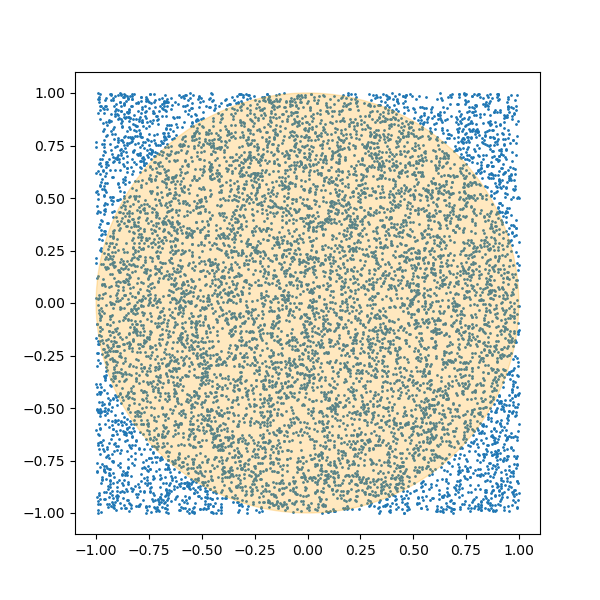
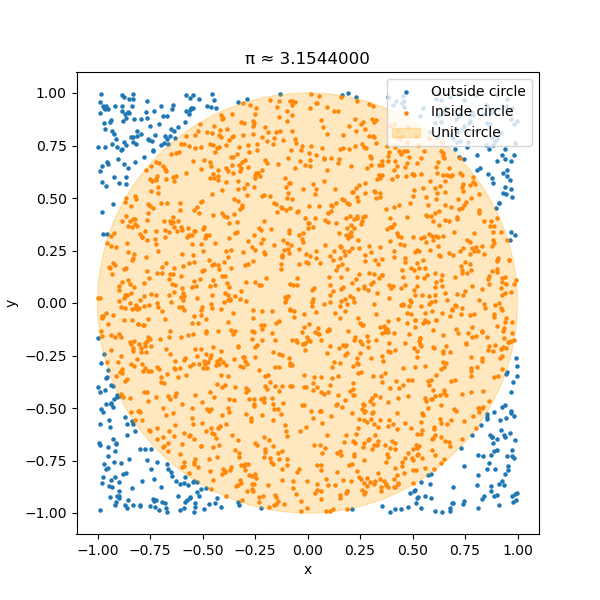
fix approximate_pi task

diff --git a/approximate_pi.py b/approximate_pi.py
@@ -7,30 +7,53 @@ N = 10000
 
 points = np.random.uniform([-1,-1],[1,1],(N,2))
 
+inside = points[:, 0]**2 + points[:, 1]**2 <= 1
 
-count = 0
-for x, y in points:
-    if x*x + y*y <= 1:
-        count += 1
+count = np.sum(inside)
 
 PI = 4 * count / N
 
 print(f"PI is approximate to be {PI:.7f}")
 
-plt.figure(figsize=(6,6))
+# ---- plotting (small sample only) ----
+sample_size = 2000
+sample_points = points[:sample_size]
+sample_inside = inside[:sample_size]
 
-# plot points
-plt.scatter(points[:, 0], points[:, 1], s=1)
+plt.figure(figsize=(6, 6))
 
-# create a circle
-circle = plt.Circle(
-    (0, 0),          # center
-    1,               # radius
-    alpha=0.25,       # transparency
-    color = "orange"
+# outside points
+plt.scatter(
+    sample_points[~sample_inside, 0],
+    sample_points[~sample_inside, 1],
+    s=5,
+    label="Outside circle"
 )
 
-# add circle to the plot
+# inside points
+plt.scatter(
+    sample_points[sample_inside, 0],
+    sample_points[sample_inside, 1],
+    s=5,
+    label="Inside circle"
+)
+
+# filled unit circle
+circle = plt.Circle( # type: ignore
+    (0, 0),
+    1,
+    alpha=0.25,
+    color="orange",
+    label="Unit circle"
+)
+
 plt.gca().add_patch(circle)
+
+# formatting
+plt.gca().set_aspect("equal", adjustable="box")
+plt.xlabel("x")
+plt.ylabel("y")
+plt.title(f"π ≈ {PI:.7f}")
+plt.legend(loc="upper right")
 
 plt.show()
